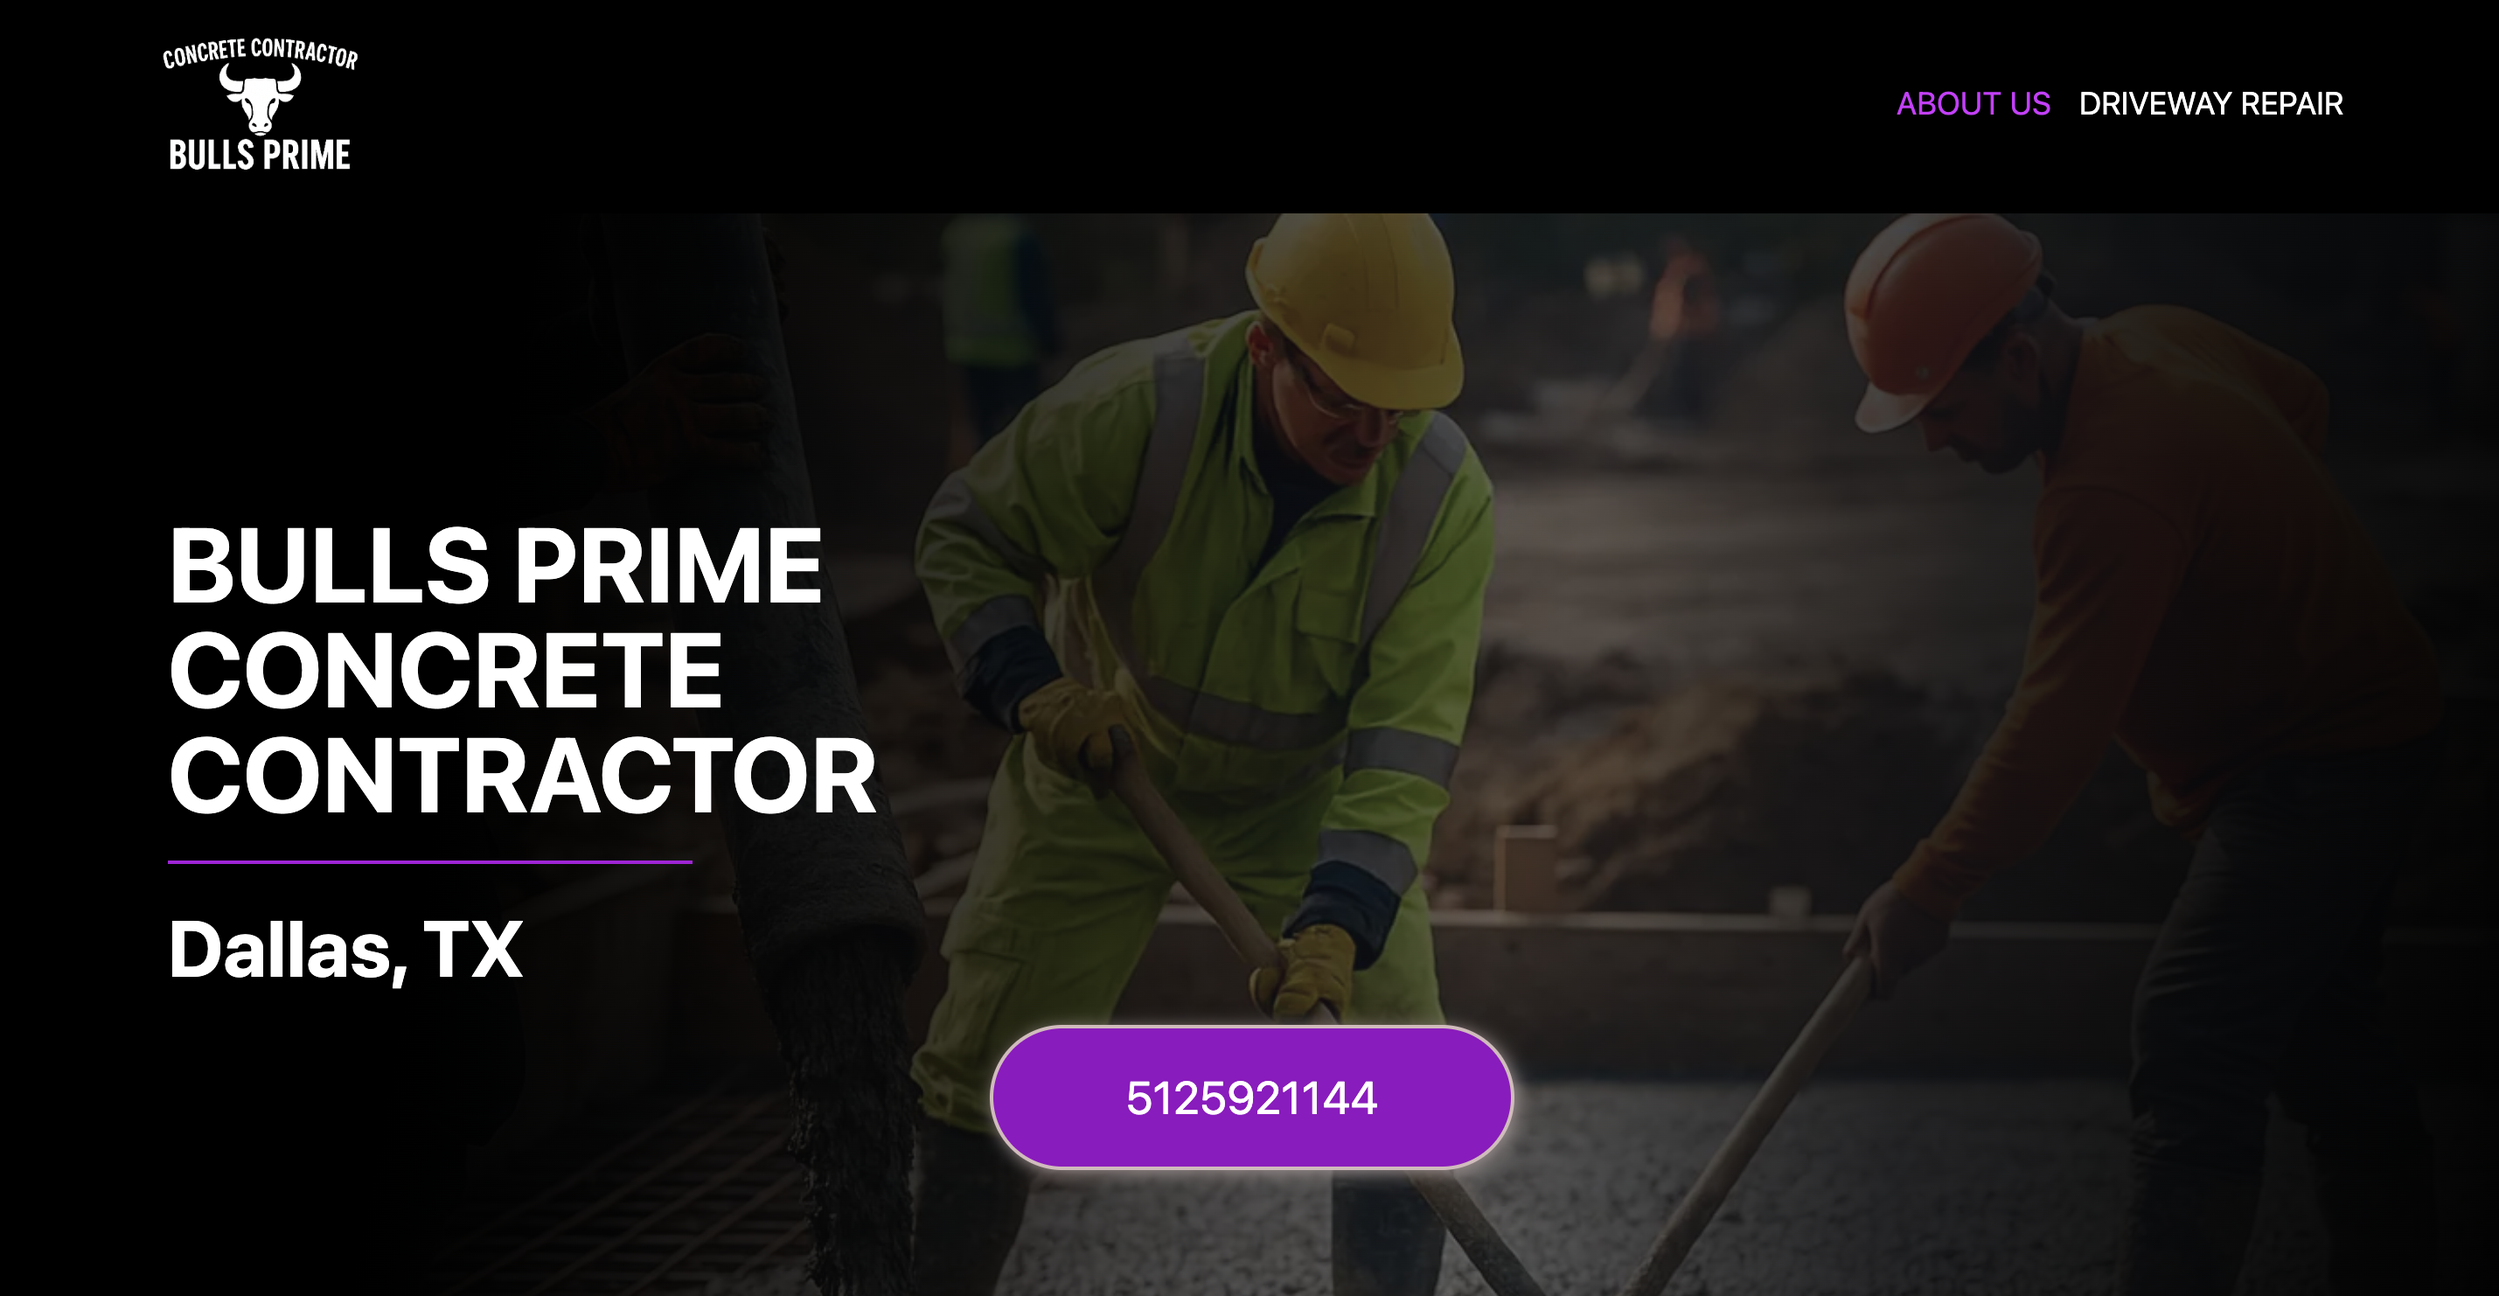
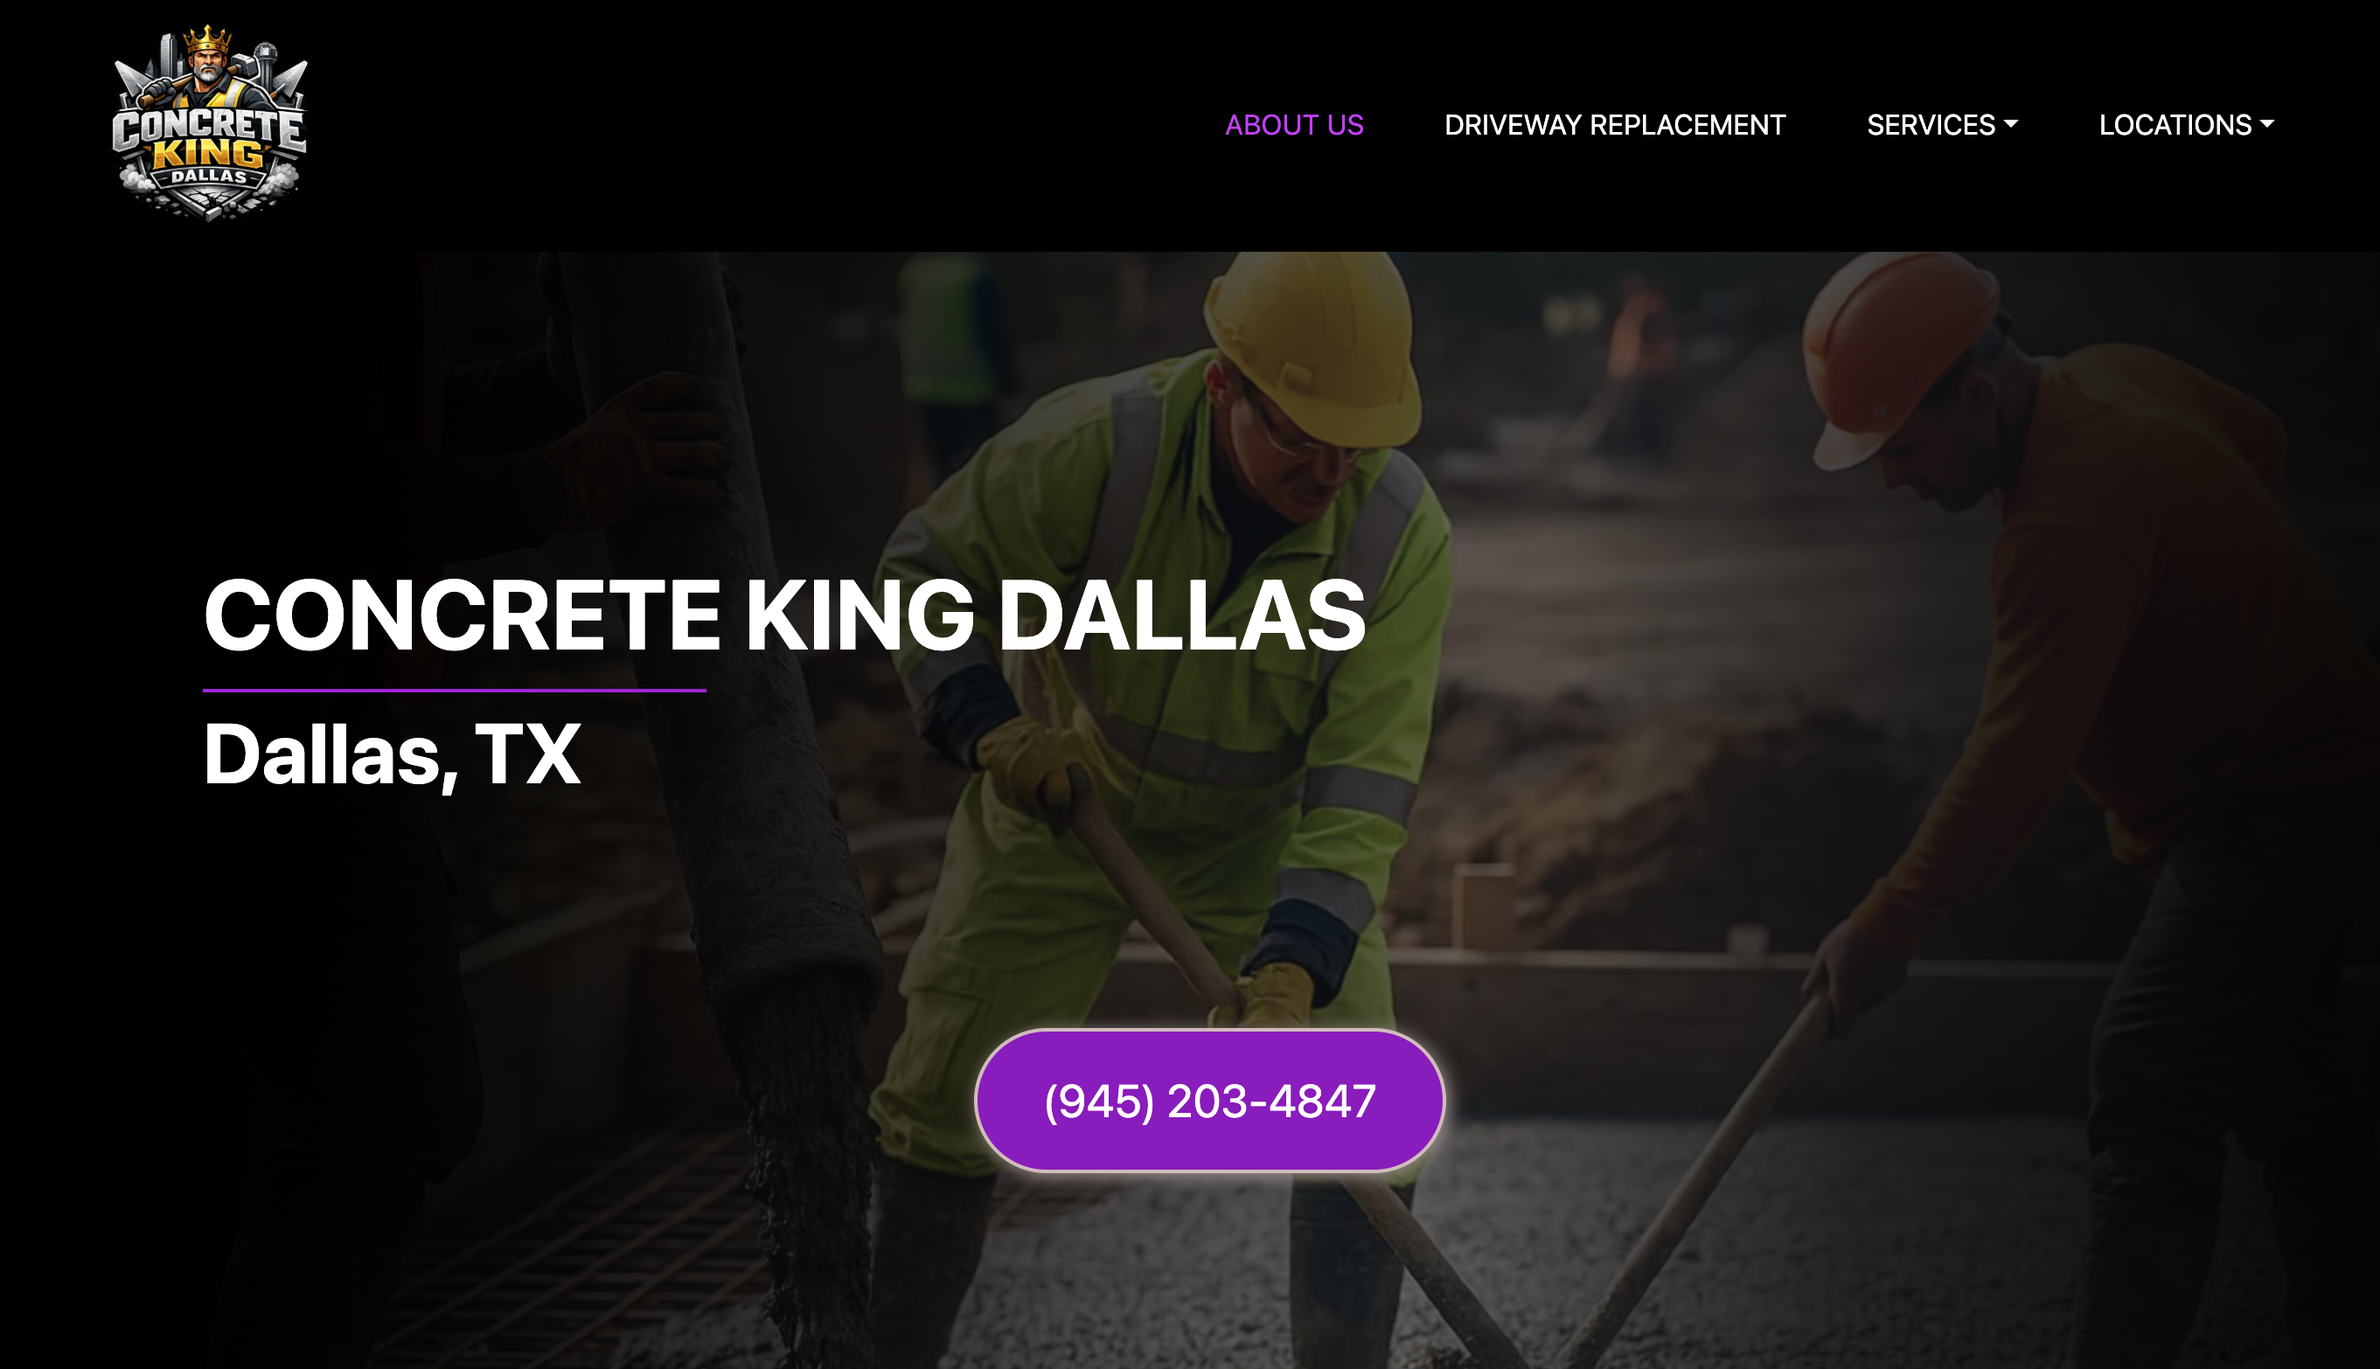
Prompt bug fixed. ChatGPT nerated content with wrong JSON format. It's fixed now.

diff --git a/utils/parseModelJson.js b/utils/parseModelJson.js
@@ -1,0 +1,140 @@
+// utils/parseModelJson.js
+//
+// Parsing JSON that a language model wrote.
+//
+// The model is asked for JSON and usually obliges, but not always. The
+// failures seen in practice:
+//
+//   - an unescaped double quote inside a value:
+//       "answer": "we are the "go-to" plumber"
+//     which ends the string early and makes the parser expect a colon
+//     where it finds a word. This is the error that killed a build.
+//
+//   - literal newlines inside a string, which JSON does not allow
+//   - trailing commas before } or ]
+//   - smart quotes where straight ones belong
+//   - the JSON wrapped in prose or a ```json fence
+//
+// Rather than each generator inventing its own cleanup, this does the same
+// repairs everywhere and reports whether it had to.
+
+/** Strip code fences and any prose either side of the JSON. */
+function extractJsonBlock(raw, expect = 'object') {
+    let text = String(raw || '').trim();
+  
+    text = text.replace(/```json/gi, '').replace(/```/g, '').trim();
+  
+    const open = expect === 'array' ? '[' : '{';
+    const close = expect === 'array' ? ']' : '}';
+  
+    const start = text.indexOf(open);
+    const end = text.lastIndexOf(close);
+  
+    if (start === -1 || end === -1 || end < start) return text;
+  
+    return text.slice(start, end + 1);
+  }
+  
+  /**
+   * Escape stray double quotes that appear INSIDE a JSON string value.
+   *
+   * Walks the text tracking whether we are inside a string. A quote found
+   * inside one is only a terminator if the next meaningful character is a
+   * delimiter — otherwise the model meant it literally and it needs escaping.
+   *
+   * This is the repair that matters: it is the difference between a usable
+   * page and a failed generation.
+   */
+  function escapeStrayQuotes(text) {
+    let out = '';
+    let inString = false;
+    let escaped = false;
+  
+    for (let i = 0; i < text.length; i++) {
+      const ch = text[i];
+  
+      if (escaped) {
+        out += ch;
+        escaped = false;
+        continue;
+      }
+  
+      if (ch === '\\') {
+        out += ch;
+        escaped = true;
+        continue;
+      }
+  
+      if (ch === '"') {
+        if (!inString) {
+          inString = true;
+          out += ch;
+          continue;
+        }
+  
+        // Inside a string: is this the real end, or a quote the model meant
+        // literally? Look ahead past whitespace for a structural character.
+        let j = i + 1;
+        while (j < text.length && /\s/.test(text[j])) j++;
+        const next = text[j];
+  
+        if (next === undefined || next === ':' || next === ',' || next === '}' || next === ']') {
+          inString = false;
+          out += ch;
+        } else {
+          out += '\\"';          // literal quote inside the value
+        }
+        continue;
+      }
+  
+      // Raw newlines and tabs are illegal inside a JSON string
+      if (inString && (ch === '\n' || ch === '\r' || ch === '\t')) {
+        out += ch === '\t' ? '\\t' : '\\n';
+        continue;
+      }
+  
+      out += ch;
+    }
+  
+    return out;
+  }
+  
+  function repairJson(text) {
+    return escapeStrayQuotes(
+      text
+        // Smart quotes the model sometimes uses as delimiters
+        .replace(/[\u201C\u201D]/g, '"')
+        .replace(/[\u2018\u2019]/g, "'")
+        // Trailing commas before a closing brace or bracket
+        .replace(/,(\s*[}\]])/g, '$1')
+    );
+  }
+  
+  /**
+   * @param {string} raw               the model's text
+   * @param {object} [opts]
+   * @param {'object'|'array'} [opts.expect]
+   * @param {string} [opts.label]      for the log line
+   * @returns {{ok: boolean, data: any, repaired: boolean, error?: Error}}
+   *
+   * Never throws. The caller decides what a failure means — for an optional
+   * section that is an empty result, for a whole page it may mean skipping it.
+   */
+  function parseModelJson(raw, { expect = 'object', label = 'model output' } = {}) {
+    const block = extractJsonBlock(raw, expect);
+  
+    // Straightforward case first: most responses parse as-is.
+    try {
+      return { ok: true, data: JSON.parse(block), repaired: false };
+    } catch (firstError) {
+      try {
+        const data = JSON.parse(repairJson(block));
+        console.warn(`   ⚠ Repaired malformed JSON from ${label}`);
+        return { ok: true, data, repaired: true };
+      } catch (secondError) {
+        return { ok: false, data: null, repaired: false, error: secondError };
+      }
+    }
+  }
+  
+  module.exports = { parseModelJson, repairJson, extractJsonBlock };

diff --git a/utils/generateLocationPagesContent.js b/utils/generateLocationPagesContent.js
@@ -1,8 +1,9 @@
 const fs = require('fs');
 const path = require('path');
 const { createLocationPagesPrompt } = require('./createLocationPagesPrompt');
-const { getOpenAI } = require('./openaiClient');
-
+const { parseModelJson } = require('./parseModelJson');
+const { OpenAI } = require('openai');
+const openai = new OpenAI();
 
 async function generateLocationPagesContent(globalForLoc, pagesInterlinks, locationIndex = 0, attempt = 1) {
 
@@ -12,21 +13,19 @@ async function generateLocationPagesContent(globalForLoc, pagesInterlinks, locat
     locationIndex
   });
 
+  const response = await openai.chat.completions.create({
+    model: 'gpt-4o',
+    messages: [{ role: 'user', content: prompt }],
+    // Raised from 0.7. Location pages share almost all of their input, so a
+    // lower temperature pushed every page towards the same phrasing — which
+    // is what Search Console was flagging as duplicate content.
+    temperature: 0.9,
+    // Penalise reuse of the same words and openings across the response.
+    frequency_penalty: 0.3,
+    presence_penalty: 0.3
+  });
 
-  const response = await getOpenAI().responses.create({
-    model: "gpt-5.6-terra",
-    input: prompt,
-    reasoning: {
-        effort: "low"
-    },
-    text: {
-        verbosity: "medium"
-    }
-});
-
-console.log("GenerateLocationPages usage:", response.usage);
-
-const raw = response.output_text.trim();
+  const raw = response.choices[0].message.content;
 
   // Clean formatting
   const cleaned = raw
@@ -36,7 +35,12 @@ const raw = response.output_text.trim();
     .trim();
 
   try {
-    const parsed = JSON.parse(cleaned);
+    // Tolerant parse: the model occasionally emits an unescaped quote inside
+    // a value, which ends the string early and makes JSON.parse fail. That
+    // used to cost two API calls and then the whole generation.
+    const result = parseModelJson(cleaned, { label: 'location page content' });
+    if (!result.ok) throw result.error;
+    const parsed = result.data;
 
     // Basic structural check to prevent silent failures
     if (
@@ -81,7 +85,10 @@ const raw = response.output_text.trim();
       return await generateLocationPagesContent(globalForLoc, pagesInterlinks, locationIndex, attempt + 1);
     }
 
-    return {};
+    // null, not {}. An empty object looks like success to the caller, which
+    // then dereferences sections that are not there and crashes the entire
+    // generation — one bad location page took the whole site with it.
+    return null;
   }
 }
 

diff --git a/utils/buildLocationPages.js b/utils/buildLocationPages.js
@@ -50,6 +50,11 @@ const buildLocationPages = async function (
   // Semantic model for the WordPress exporter
   const modelPages = [];
 
+  // Locations whose content could not be generated. Reported at the end so
+  // a short site is visible in the log rather than discovered later from a
+  // missing link.
+  const skipped = [];
+
 
   for (const [index, locationPage] of locationPages.entries()) {
     let locationSlug = locationPage.slug || locationPage.display || ''; // e.g., "Austin TX"
@@ -99,6 +104,20 @@ const buildLocationPages = async function (
     // Pass the index so each location page gets a different angle — without
     // it every page opens on the same topic and reads as templated.
     const sections = await generateLocationPagesContent(globalForLoc, pagesInterlinks, Number(index));
+
+    // Skip this location rather than taking the whole generation with it.
+    //
+    // The content generator returns null when the model's JSON could not be
+    // parsed after retrying. Previously that produced {}, and the template
+    // fill below dereferenced sections.section1.heading — so one unparseable
+    // location page threw and the user lost their entire site, including the
+    // pages that had already generated successfully.
+    if (!sections || !sections.section1 || !Array.isArray(sections.section1.paragraphs)) {
+      console.warn(`   ⚠ Skipping location page for ${locationPage.display || locationSlug}: content could not be generated`);
+      skipped.push(locationPage.display || locationSlug);
+      continue;
+    }
+
     const altTexts = buildAltText(globalForLoc, Number(index));
 
     //console.log(`from buildLocationPages ${sections.section1.paragraphs[0]}`);
@@ -291,6 +310,10 @@ const buildLocationPages = async function (
     });
 
 
+  }
+
+  if (skipped.length) {
+    console.warn(`   ⚠ ${skipped.length} location page(s) skipped: ${skipped.join(', ')}`);
   }
 
   return modelPages;

diff --git a/utils/generateContactContent.js b/utils/generateContactContent.js
@@ -8,6 +8,7 @@
 // need an essay, and padding it out would only dilute the call to action.
 
 const { OpenAI } = require('openai');
+const { parseModelJson } = require('./parseModelJson');
 
 // Created on first use: constructing OpenAI without a key throws, which
 // would take the server down at boot rather than skipping one section.
@@ -110,7 +111,12 @@ async function generateContactContent({ businessName, businessType, location, ph
       .replace(/}[^}]*$/, '}')
       .trim();
 
-    const parsed = JSON.parse(cleaned);
+    // Tolerant parse: the model sometimes emits an unescaped quote inside a
+    // value, which breaks JSON.parse. These sections fail soft, but a repair
+    // means the user gets the content rather than an empty section.
+    const parseResult = parseModelJson(cleaned, { expect: 'object', label: 'contact intro' });
+    if (!parseResult.ok) throw parseResult.error;
+    const parsed = parseResult.data;
 
     const heading = String(parsed.heading || '').trim();
     const paragraphs = Array.isArray(parsed.paragraphs)

diff --git a/utils/generateFaqAnswers.js b/utils/generateFaqAnswers.js
@@ -8,6 +8,7 @@
 // answers.
 
 const { OpenAI } = require('openai');
+const { parseModelJson } = require('./parseModelJson');
 const { log } = require('./logger');
 const { getFixedFaqQuestions, getFixedFaqFallbacks } = require('./fixedFaqQuestions');
 
@@ -101,7 +102,12 @@ async function generateFaqAnswers({ questions, businessName, businessType, locat
       .replace(/\][^\]]*$/, ']')
       .trim();
 
-    const parsed = JSON.parse(cleaned);
+    // Tolerant parse: the model sometimes emits an unescaped quote inside a
+    // value, which breaks JSON.parse. These sections fail soft, but a repair
+    // means the user gets the content rather than an empty section.
+    const parseResult = parseModelJson(cleaned, { expect: 'array', label: 'FAQ answers' });
+    if (!parseResult.ok) throw parseResult.error;
+    const parsed = parseResult.data;
     if (!Array.isArray(parsed)) throw new Error('Model did not return an array');
 
     // Pair answers back to the questions we asked, so a reordered or

diff --git a/routes/generateRoute.js b/routes/generateRoute.js
@@ -498,6 +498,20 @@ router.post('/generate', upload.any(), async (req, res) => {
 
       // Generate Page Sections Content
       const sections = await generatePagesContent(globalValues, page, pagesInterlinks);
+
+      // Skip this service page rather than failing the whole generation.
+      // The same guard the location pages needed: unparseable model output
+      // used to throw here and take every page with it, including ones that
+      // had already been written.
+      if (!sections || !sections.section1 || !Array.isArray(sections.section1.paragraphs)) {
+        console.warn(`   ⚠ Skipping service page "${page.keyword}": content could not be generated`);
+        log.external('openai', 'servicePageContentFailed', {
+          requestId: req.id,
+          keyword: page.keyword,
+        });
+        continue;
+      }
+
       const sectionsWithLinks = injectPagesInterlinks(
                                         globalValues,
                                         pages,

diff --git a/utils/buildPricingTable.js b/utils/buildPricingTable.js
@@ -16,6 +16,7 @@
 // helper. Created on first use: constructing OpenAI without a key throws,
 // which would stop the server booting instead of skipping one section.
 const { getOpenAI } = require('./openaiClient');
+const { parseModelJson } = require('./parseModelJson');
 
 const ROW_COUNT = 6;
 
@@ -118,7 +119,12 @@ async function generatePricing({ businessType, location }) {
       .replace(/\][^\]]*$/, ']')
       .trim();
 
-    const parsed = JSON.parse(cleaned);
+    // Tolerant parse: the model sometimes emits an unescaped quote inside a
+    // value, which breaks JSON.parse. These sections fail soft, but a repair
+    // means the user gets the content rather than an empty section.
+    const parseResult = parseModelJson(cleaned, { expect: 'array', label: 'pricing table' });
+    if (!parseResult.ok) throw parseResult.error;
+    const parsed = parseResult.data;
     if (!Array.isArray(parsed)) throw new Error('Model did not return an array');
 
     const rows = parsed

diff --git a/utils/buildServiceCards.js b/utils/buildServiceCards.js
@@ -16,6 +16,7 @@
 // constructing OpenAI without a key throws, which would stop the server
 // booting instead of just skipping the cards.
 const { getOpenAI } = require('./openaiClient');
+const { parseModelJson } = require('./parseModelJson');
 
 const CARD_COUNT = 6;
 
@@ -103,7 +104,12 @@ async function generateServiceCards({ businessType, businessName, location }) {
       .replace(/\][^\]]*$/, ']')
       .trim();
 
-    const parsed = JSON.parse(cleaned);
+    // Tolerant parse: the model sometimes emits an unescaped quote inside a
+    // value, which breaks JSON.parse. These sections fail soft, but a repair
+    // means the user gets the content rather than an empty section.
+    const parseResult = parseModelJson(cleaned, { expect: 'array', label: 'service cards' });
+    if (!parseResult.ok) throw parseResult.error;
+    const parsed = parseResult.data;
     if (!Array.isArray(parsed)) throw new Error('Model did not return an array');
 
     const cards = parsed

diff --git a/public/js/generateDinamycForm.js b/public/js/generateDinamycForm.js
@@ -289,8 +289,8 @@
   const SITE_MODES = [
     {
       value: 'lead',
-      title: 'SEO-Optimized',
-      description: 'Built to rank fast and generate leads without a GBP',
+      title: 'Rank Fast',
+      description: 'Built fully SEO-optimized to rank fast and generate leads without a GBP',
     },
     {
       value: 'sample',
